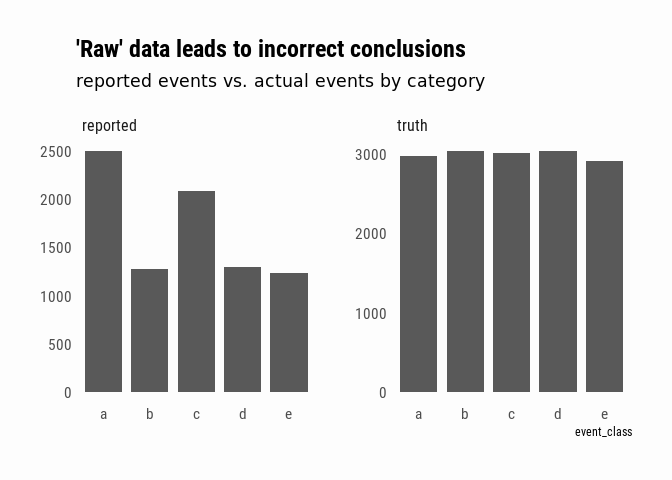
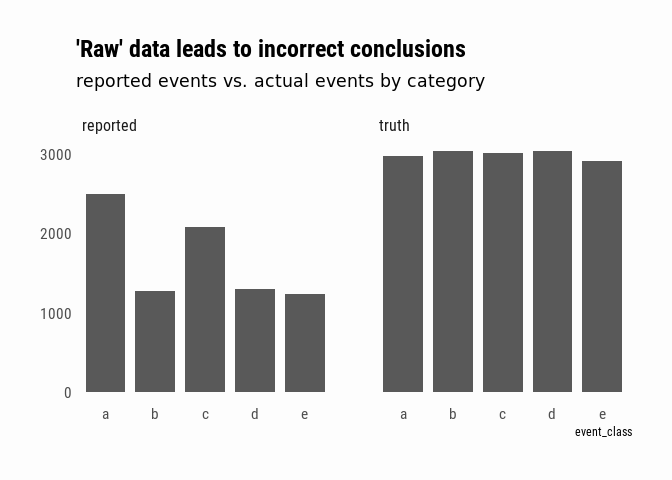
re-compile

diff --git a/mse/index.md b/mse/index.md
@@ -85,8 +85,8 @@ generate_events(classes = c("a", "b"),
     ## # A tibble: 2 x 2
     ##   event_class     n
     ##   <chr>       <int>
-    ## 1 a            3778
-    ## 2 b            1222
+    ## 1 a            3680
+    ## 2 b            1320
 
 A reporting source is simulated by sampling from the population of
 events, possibly with bias. To generate multiple reports of events, we
@@ -303,39 +303,13 @@ complex_event_reports %>%
     summarise(n = n_distinct(event_id)) %>% 
     ggplot(aes(x = event_class, y = n)) +
     geom_col(width = .8) + 
-    facet_wrap(~source, scales = "free_y") +
+    facet_wrap(~source) +
     labs(title    = "'Raw' data leads to incorrect conclusions",
          subtitle = "reported events vs. actual events by category") +
     theme(axis.title.y = element_blank())
 ~~~~
 
 ![](index_files/figure-markdown_strict/unnamed-chunk-8-1.png)
-
-Though there isn't any causal relationship between sources, I now can
-observe correlation between sources 5 and 6, reflecting the fact that
-they have similar biases (using cosine similarity):
-
-~~~~ r
-rpt_mat <- complex_event_reports %>% 
-    mutate(placeholder = 1L) %>% 
-    spread(source, placeholder, fill = 0L) %>% 
-    select(source1:source6) %>% as.matrix
-
-dot_products <- t(rpt_mat) %*% rpt_mat
-sim_scale <- sqrt(diag(dot_products))
-sim <- dot_products / sim_scale
-sim <- apply(sim, 1, function(x) x / sim_scale)
-
-round(sim, 2)
-~~~~
-
-    ##         source1 source2 source3 source4 source5 source6
-    ## source1    1.00    0.10    0.11    0.10    0.14    0.14
-    ## source2    0.10    1.00    0.10    0.09    0.14    0.14
-    ## source3    0.11    0.10    1.00    0.10    0.14    0.14
-    ## source4    0.10    0.09    0.10    1.00    0.14    0.13
-    ## source5    0.14    0.14    0.14    0.14    1.00    0.36
-    ## source6    0.14    0.14    0.14    0.13    0.36    1.00
 
 We'll set up the data for the model as before:
 
@@ -361,9 +335,7 @@ complex_event_report_smry
 
 I can imagine the same sort of model as we used in the simpler case
 above. If a particular class of event appears in more intersections than
-another, I can infer that it is over-represented in the data. I'll need
-to model the observed correlation between the reporting sources.
-Fortunately, the `brms` formula syntax allows me to do this:
+another, I can infer that it is over-represented in the data.
 
 ~~~~ r
 complex_event_data_model <- 
